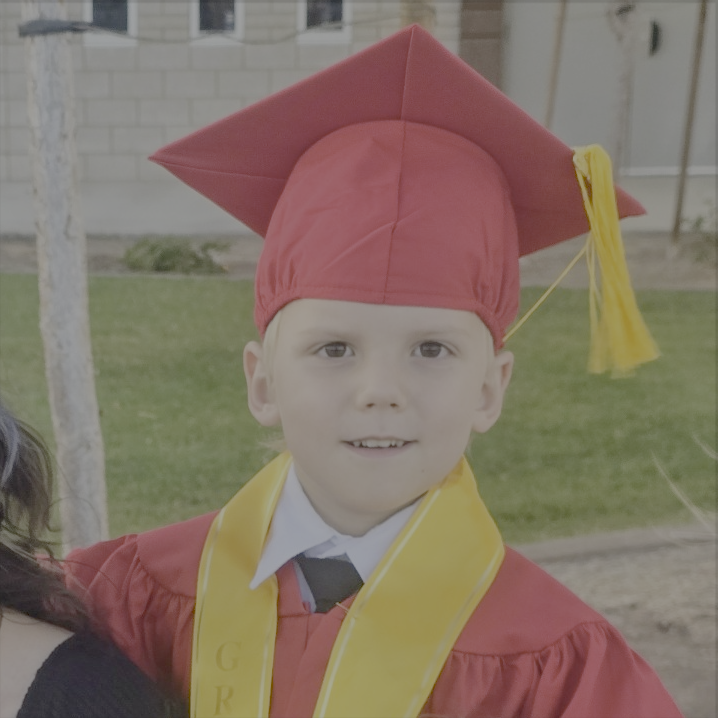
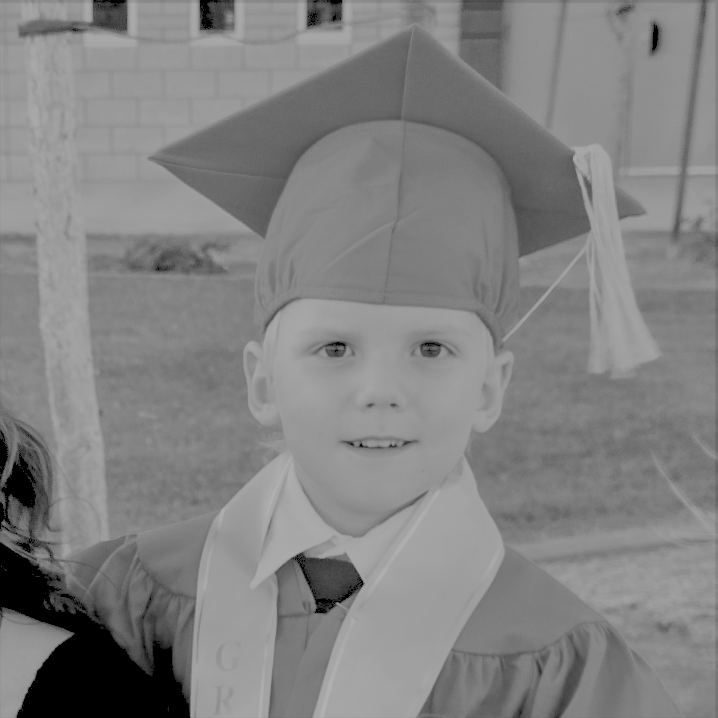
Made children photos black and white

diff --git a/index.html b/index.html
@@ -712,7 +712,7 @@
                 date: "Summer 2022",
                 title: "Daughter was born",
                 description: "My daughter, Audrey, was born four days after my birthday, and she ushered in a lot of exciting chapters in my professional career!",
-                image: "./AudreyBorn.png"
+                image: "./Audrey.png"
             },
             {
                 date: "Summer 2022",
